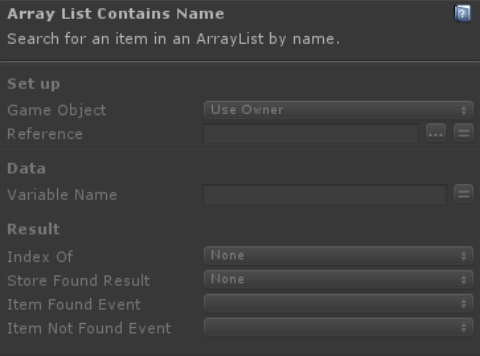
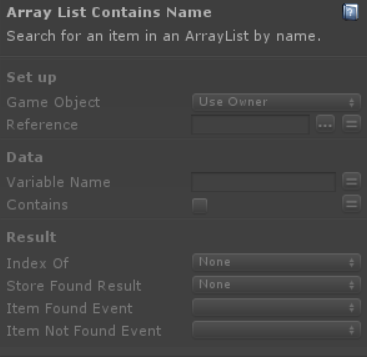
init

diff --git a/Custom PlayMaker Actions/Array Customs/ArrayAddGameObjectIfEnabled.cs b/Custom PlayMaker Actions/Array Customs/ArrayAddGameObjectIfEnabled.cs
@@ -1,0 +1,82 @@
+//License: Attribution 4.0 International (CC BY 4.0)
+//Author: Deek
+
+/*--- __ECO__ __PLAYMAKER__ __ACTION__ ---*/
+
+namespace HutongGames.PlayMaker.Actions
+{
+	[ActionCategory(ActionCategory.Array)]
+	[HelpUrl("http://hutonggames.com/playmakerforum/index.php?topic=15458.0")]
+	[Tooltip("Add an GameObject to the end of a GameObject array if it's enabled. Optionally reverse the check.")]
+	public class ArrayAddGameObjectIfEnabled : FsmStateAction
+	{
+		public enum ActiveType
+		{
+			ActiveInHirarchy,
+			ActiveSelf
+		}
+
+		[RequiredField]
+		[UIHint(UIHint.Variable)]
+		[ArrayEditor(VariableType.GameObject)]
+		[Tooltip("The Array Variable to use.")]
+		public FsmArray array;
+
+		[RequiredField]
+		[Tooltip("GameObject to add.")]
+		public FsmGameObject gameObject;
+
+		[Tooltip("Wheter to check if the GameObject is active in the Hirarchy " +
+				 "or itself independent of any parents state.")]
+		public ActiveType activeType;
+
+		[Tooltip("Wheter to add the GameObject if it's enabled or disabled.")]
+		public FsmBool ifEnabled;
+
+		public override void Reset()
+		{
+			array = null;
+			gameObject = null;
+			activeType = ActiveType.ActiveInHirarchy;
+			ifEnabled = true;
+		}
+
+		public override void OnEnter()
+		{
+			if(ifEnabled.Value)
+			{
+				switch(activeType)
+				{
+					case ActiveType.ActiveInHirarchy:
+						if(gameObject.Value.activeInHierarchy) DoAddValue();
+						break;
+					case ActiveType.ActiveSelf:
+						if(gameObject.Value.activeSelf) DoAddValue();
+						break;
+				}
+			} else
+			{
+				switch(activeType)
+				{
+					case ActiveType.ActiveInHirarchy:
+						if(!gameObject.Value.activeInHierarchy) DoAddValue();
+						break;
+					case ActiveType.ActiveSelf:
+						if(!gameObject.Value.activeSelf) DoAddValue();
+						break;
+				}
+			}
+			
+			Finish();
+		}
+
+		private void DoAddValue()
+		{
+			array.Resize(array.Length + 1);
+			array.Set(array.Length - 1, gameObject.Value);
+		}
+
+	}
+
+}
+

diff --git a/Custom PlayMaker Actions/Array Lists & Hash Table Customs/ArrayListContainsName.cs b/Custom PlayMaker Actions/Array Lists & Hash Table Customs/ArrayListContainsName.cs
@@ -27,6 +27,8 @@ namespace HutongGames.PlayMaker.Actions
 		[Tooltip("The variable-name to check.")]
 		public FsmString variableName;
 
+		[Tooltip("If the array items can contain the given variable name. When unset, they have to match.")]
+		public FsmBool contains;
 
 		[ActionSection("Result")]
 
@@ -53,6 +55,7 @@ namespace HutongGames.PlayMaker.Actions
 			gameObject = null;
 			reference = null;
 			variableName = null;
+			contains = false;
 			indexOf = null;
 			storeFoundResult = new FsmVar();
 			itemFoundEvent = null;
@@ -74,17 +77,30 @@ namespace HutongGames.PlayMaker.Actions
 			int i = 0;
 			foreach(var item in proxy.arrayList)
 			{
-				if(item.ToString() == variableName.Value)
-				{
-					storeFoundResult.UpdateValue();
+				string itemName = item.ToString();
+				
+				//remove any object type inside the item name
+				if (itemName.Contains(" ("))
+					itemName = itemName.Substring(0, itemName.IndexOf(" ("));
 
-					if(storeFoundResult.ObjectType != item.GetType())
+				bool containsName = !contains.Value ? itemName == variableName.Value 
+																				     : itemName.Contains(variableName.Value);
+				
+				if(containsName)
+				{
+					if (!storeFoundResult.IsNone)
 					{
-						LogError("Found ArrayList item isn't of type " + storeFoundResult.Type.ToString() + "!");
+						storeFoundResult.UpdateValue();
+
+						if(storeFoundResult.ObjectType != item.GetType())
+						{
+							LogError("Found ArrayList item isn't of type " + storeFoundResult.Type + "! Please change the Object type of '" + storeFoundResult.variableName + "' in the Variables tab to " + item.GetType() + ".");
+						}
+
+						storeFoundResult.SetValue(item);
 					}
 
-					storeFoundResult.SetValue(item);
-					indexOf.Value = i;
+					if (!indexOf.IsNone) indexOf.Value = i;
 
 					Fsm.Event(itemFoundEvent);
 				}

diff --git a/Custom PlayMaker Actions/Array Customs/ArrayAddIfEmpty.cs b/Custom PlayMaker Actions/Array Customs/ArrayAddIfEmpty.cs
@@ -1,0 +1,66 @@
+//License: Attribution 4.0 International (CC BY 4.0)
+//Author: Deek
+
+/*--- __ECO__ __PLAYMAKER__ __ACTION__ ---*/
+
+namespace HutongGames.PlayMaker.Actions
+{
+	[ActionCategory(ActionCategory.Array)]
+	[HelpUrl("http://hutonggames.com/playmakerforum/index.php?topic=15458.0")]
+	[Tooltip("Add an item to the end of an Array if it's null or empty. Optionally reverse the check.")]
+	public class ArrayAddIfEmpty : FsmStateAction
+	{
+		[RequiredField]
+		[UIHint(UIHint.Variable)]
+		[Tooltip("The Array Variable to use.")]
+		public FsmArray array;
+
+		[RequiredField]
+		[MatchElementType("array")]
+		[Tooltip("Item to add.")]
+		public FsmVar value;
+
+		[Tooltip("Adds if empty, otherwise if not empty.")]
+		public FsmBool ifEmpty;
+
+		public override void Reset()
+		{
+			array = null;
+			value = null;
+			ifEmpty = true;
+		}
+
+		public override void OnEnter()
+		{
+			if(ifEmpty.Value)
+			{
+				if(value.IsNone && value.GetValue() == null) DoAddValue();
+			} else
+			{
+				if(!value.IsNone && value.GetValue() != null) DoAddValue();
+			}
+
+			Finish();
+		}
+
+		private void DoAddValue()
+		{
+			//incorporate the check for empty or not empty if the value is of type string
+			if(value.Type == VariableType.String)
+			{
+				if(ifEmpty.Value)
+				{
+					if(!string.IsNullOrEmpty(value.stringValue)) return;
+				} else
+				{
+					if(string.IsNullOrEmpty(value.stringValue)) return;
+				}
+			}
+
+			array.Resize(array.Length + 1);
+			value.UpdateValue();
+			array.Set(array.Length - 1, value.GetValue());
+		}
+	}
+}
+

diff --git a/Custom PlayMaker Actions/GameObject & UnityObject Customs/GetChildren.cs b/Custom PlayMaker Actions/GameObject & UnityObject Customs/GetChildren.cs
@@ -1,0 +1,54 @@
+//License: Attribution 4.0 International (CC BY 4.0)
+//Author: Deek
+
+/*--- __ECO__ __PLAYMAKER__ __ACTION__ ---*/
+
+namespace HutongGames.PlayMaker.Actions
+{
+	[ActionCategory(ActionCategory.GameObject)]
+	[HelpUrl("http://hutonggames.com/playmakerforum/index.php?topic=15458.0")]
+	[Tooltip("Finds multiple children of a GameObject by their names.")]
+	public class GetChildren : FsmStateAction
+	{
+		[RequiredField]
+		[Tooltip("The GameObject to search.")]
+		public FsmOwnerDefault gameObject;
+
+		[CompoundArray("Children", "Name", "Store Result")]
+
+		[RequiredField]
+		[Tooltip("The name of the child. Note, you can specify a path to the child " +
+			"(e.g. \"LeftShoulder/Arm/Hand/Finger\", where \"LeftShoulder\" would be the child to start from.")]
+		public FsmString[] childNames;
+
+		[RequiredField]
+		[UIHint(UIHint.Variable)]
+		[Tooltip("Store the current child in a GameObject variable.")]
+		public FsmGameObject[] storeResult;
+
+		public override void Reset()
+		{
+			gameObject = null;
+			childNames = new FsmString[2];
+			storeResult = new FsmGameObject[2];
+		}
+
+		public override void OnEnter()
+		{
+			DoFindChild();
+			Finish();
+		}
+
+		void DoFindChild()
+		{
+			var go = Fsm.GetOwnerDefaultTarget(gameObject);
+			if (go == null) return;
+			
+			for(int i = 0; i < childNames.Length; i++)
+			{
+				var transform = go.transform.Find(childNames[i].Value);
+				storeResult[i].Value = transform != null ? transform.gameObject : null;
+			}
+		}
+	}
+}

diff --git a/Custom PlayMaker Actions/Array Customs/ArrayIsEmpty.cs b/Custom PlayMaker Actions/Array Customs/ArrayIsEmpty.cs
@@ -1,0 +1,33 @@
+//License: Attribution 4.0 International (CC BY 4.0)
+//Author: Deek
+
+/*--- __ECO__ __PLAYMAKER__ __ACTION__ ---*/
+
+namespace HutongGames.PlayMaker.Actions
+{
+	[ActionCategory(ActionCategory.Array)]
+	[Tooltip("Send an event based on the length of an array.")]
+	public class ArrayIsEmpty : FsmStateAction
+	{
+		[UIHint(UIHint.Variable)]
+		[Tooltip("The Array Variable.")]
+		public FsmArray array;
+
+		[Tooltip("Event to send if the array is empty.")]
+		public FsmEvent isEmpty;
+
+		[Tooltip("Event to send if the array not is empty.")]
+		public FsmEvent isNotEmpty;
+
+		public override void Reset()
+		{
+			array = null;
+		}
+
+		public override void OnEnter()
+		{
+			Fsm.Event(array.Length == 0 ? isEmpty : isNotEmpty);
+			Finish();
+		}
+	}
+}

diff --git a/Custom PlayMaker Actions/Array Customs/README.MD b/Custom PlayMaker Actions/Array Customs/README.MD
@@ -1,5 +1,14 @@
+## ArrayAddGameObjectIfEnabled.cs
+![Image](/Screenshots/Actions/ArrayAddGameObjectIfEnabled.png)
+
+## ArrayAddIfEmpty.cs
+![Image](/Screenshots/Actions/ArrayAddIfEmpty.png)
+
 ## ArrayGetRandomAdvanced.cs
 ![Image](/Screenshots/Actions/ArrayGetRandomAdvanced.png)
+
+## ArrayIsEmpty.cs
+![Image](/Screenshots/Actions/ArrayIsEmpty.png)
 
 ## ArrayOperator.cs
 ![Image](/Screenshots/Actions/ArrayOperator.png)

diff --git a/Custom PlayMaker Actions/GameObject & UnityObject Customs/README.MD b/Custom PlayMaker Actions/GameObject & UnityObject Customs/README.MD
@@ -25,6 +25,9 @@
 ## GetChildCountAdvanced.cs
 ![Image](/Screenshots/Actions/GetChildCountAdvanced.png)
 
+## GetChildren.cs
+![Image](/Screenshots/Actions/GetChildren.png)
+
 ## GetGameObjectSibling.cs
 ![Image](/Screenshots/Actions/GetGameObjectSibling.png)
 
